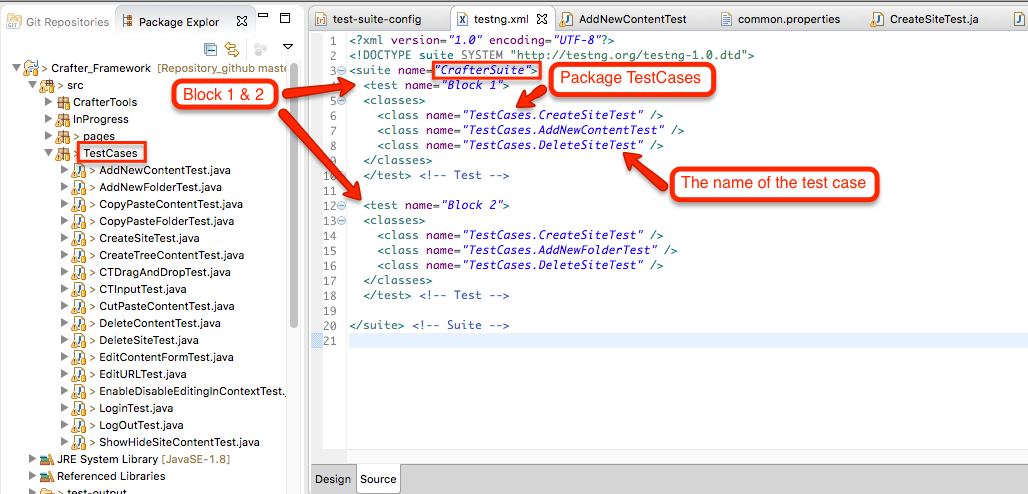
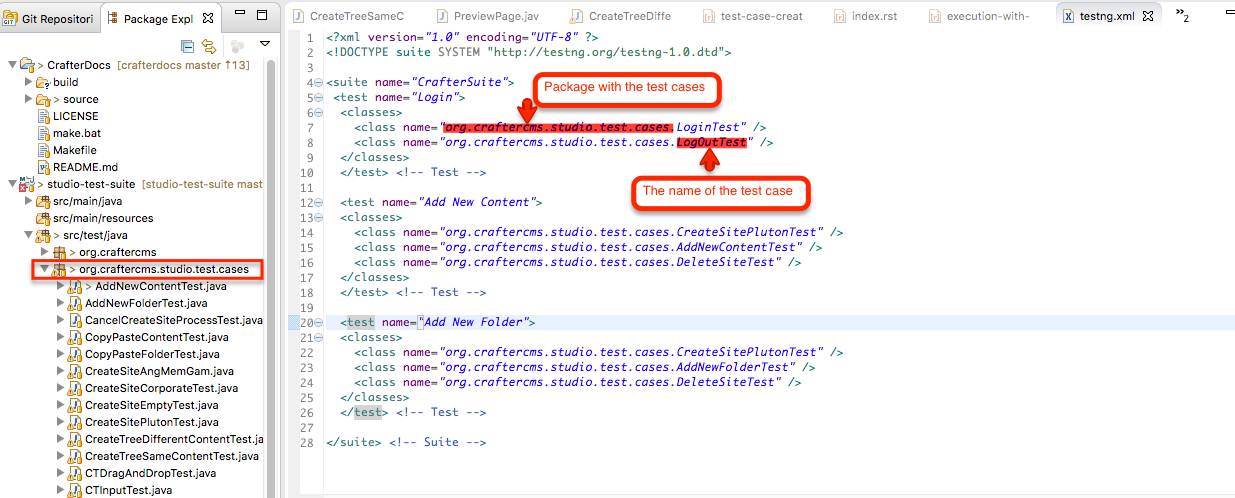
Execution the test suite with maven.

Changed region(s): [[0.0, 0.0, 1.0, 1.0], [0.2802, 0.9413, 1.0, 1.0]]

diff --git a/source/developers/projects/qa/execution-with-maven.rst b/source/developers/projects/qa/execution-with-maven.rst
@@ -1,0 +1,38 @@
+.. _crafter-QA:
+
+================================
+Test Suite Execution with Maven.
+================================
+
+
+
+
+.. toctree::
+   :maxdepth: 1
+
+
+**Maven**
+
+Integrating Maven with Selenium provides following benefits
+Apache Maven provides support for managing the full lifecycle of a test project.
+
+* Maven is used to define project structure, dependencies, build, and test management.
+* Using pom.xml(Maven) you can configure dependencies needed for building testing and running code.
+* Maven automatically downloads the necessary files from the repository while building the project.
+
+
+.. note:: Yo need Eclipse with Maven Installed
+
+1. We need add to the testng.xml our list of the test cases to execute.
+
+.. image:: /_static/images/TestSuite2.png
+
+2. After type the test cases in the xml file , we will execute the testng.xml using *maven*.
+
+2.1 Open your favorite console and using the command line go to the location of the automation project. (studio-test-suite)
+
+.. image:: /_static/images/QAMaven4.png
+
+2.2 In this location in the console, type this command *mvn clean test* and wait.
+
+.. image:: /_static/images/QAMaven5.png

diff --git a/source/developers/projects/qa/index.rst b/source/developers/projects/qa/index.rst
@@ -12,4 +12,5 @@ Crafter QA Automation Framework
    setup-qa-environment.rst
    test-case-creation.rst
    phantomJS-configuration.rst
-   test-suite-configuration.rst   
+   test-suite-configuration.rst
+   execution-with-maven.rst   
